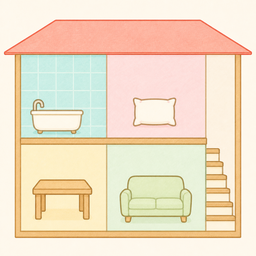
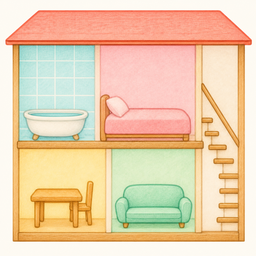
世界切り替えアイコンを新背景に統一

diff --git a/games/world.html b/games/world.html
@@ -22,9 +22,9 @@
 
 <main>
   <div class="stages" id="stages">
-    <button class="btn green active" data-stage="land" aria-label="おかの せかい"><img src="../assets/stages/world-land.png" alt=""></button>
-    <button class="btn blue" data-stage="water" aria-label="みずの せかい"><img src="../assets/stages/world-water.png" alt=""></button>
-    <button class="btn orange" data-stage="house" aria-label="いえの なか"><img src="../assets/stages/world-house.png?v=3" alt=""></button>
+    <button class="btn green active" data-stage="land" aria-label="おかの せかい"><img src="../assets/stages/world-land.png?v=2" alt=""></button>
+    <button class="btn blue" data-stage="water" aria-label="みずの せかい"><img src="../assets/stages/world-water.png?v=2" alt=""></button>
+    <button class="btn orange" data-stage="house" aria-label="いえの なか"><img src="../assets/stages/world-house.png?v=4" alt=""></button>
   </div>
   <p style="text-align:center;font-weight:bold;margin:6px" id="hint">
     とりこんだ みんなの えが あそんでいるよ。タッチすると よろこぶよ!
